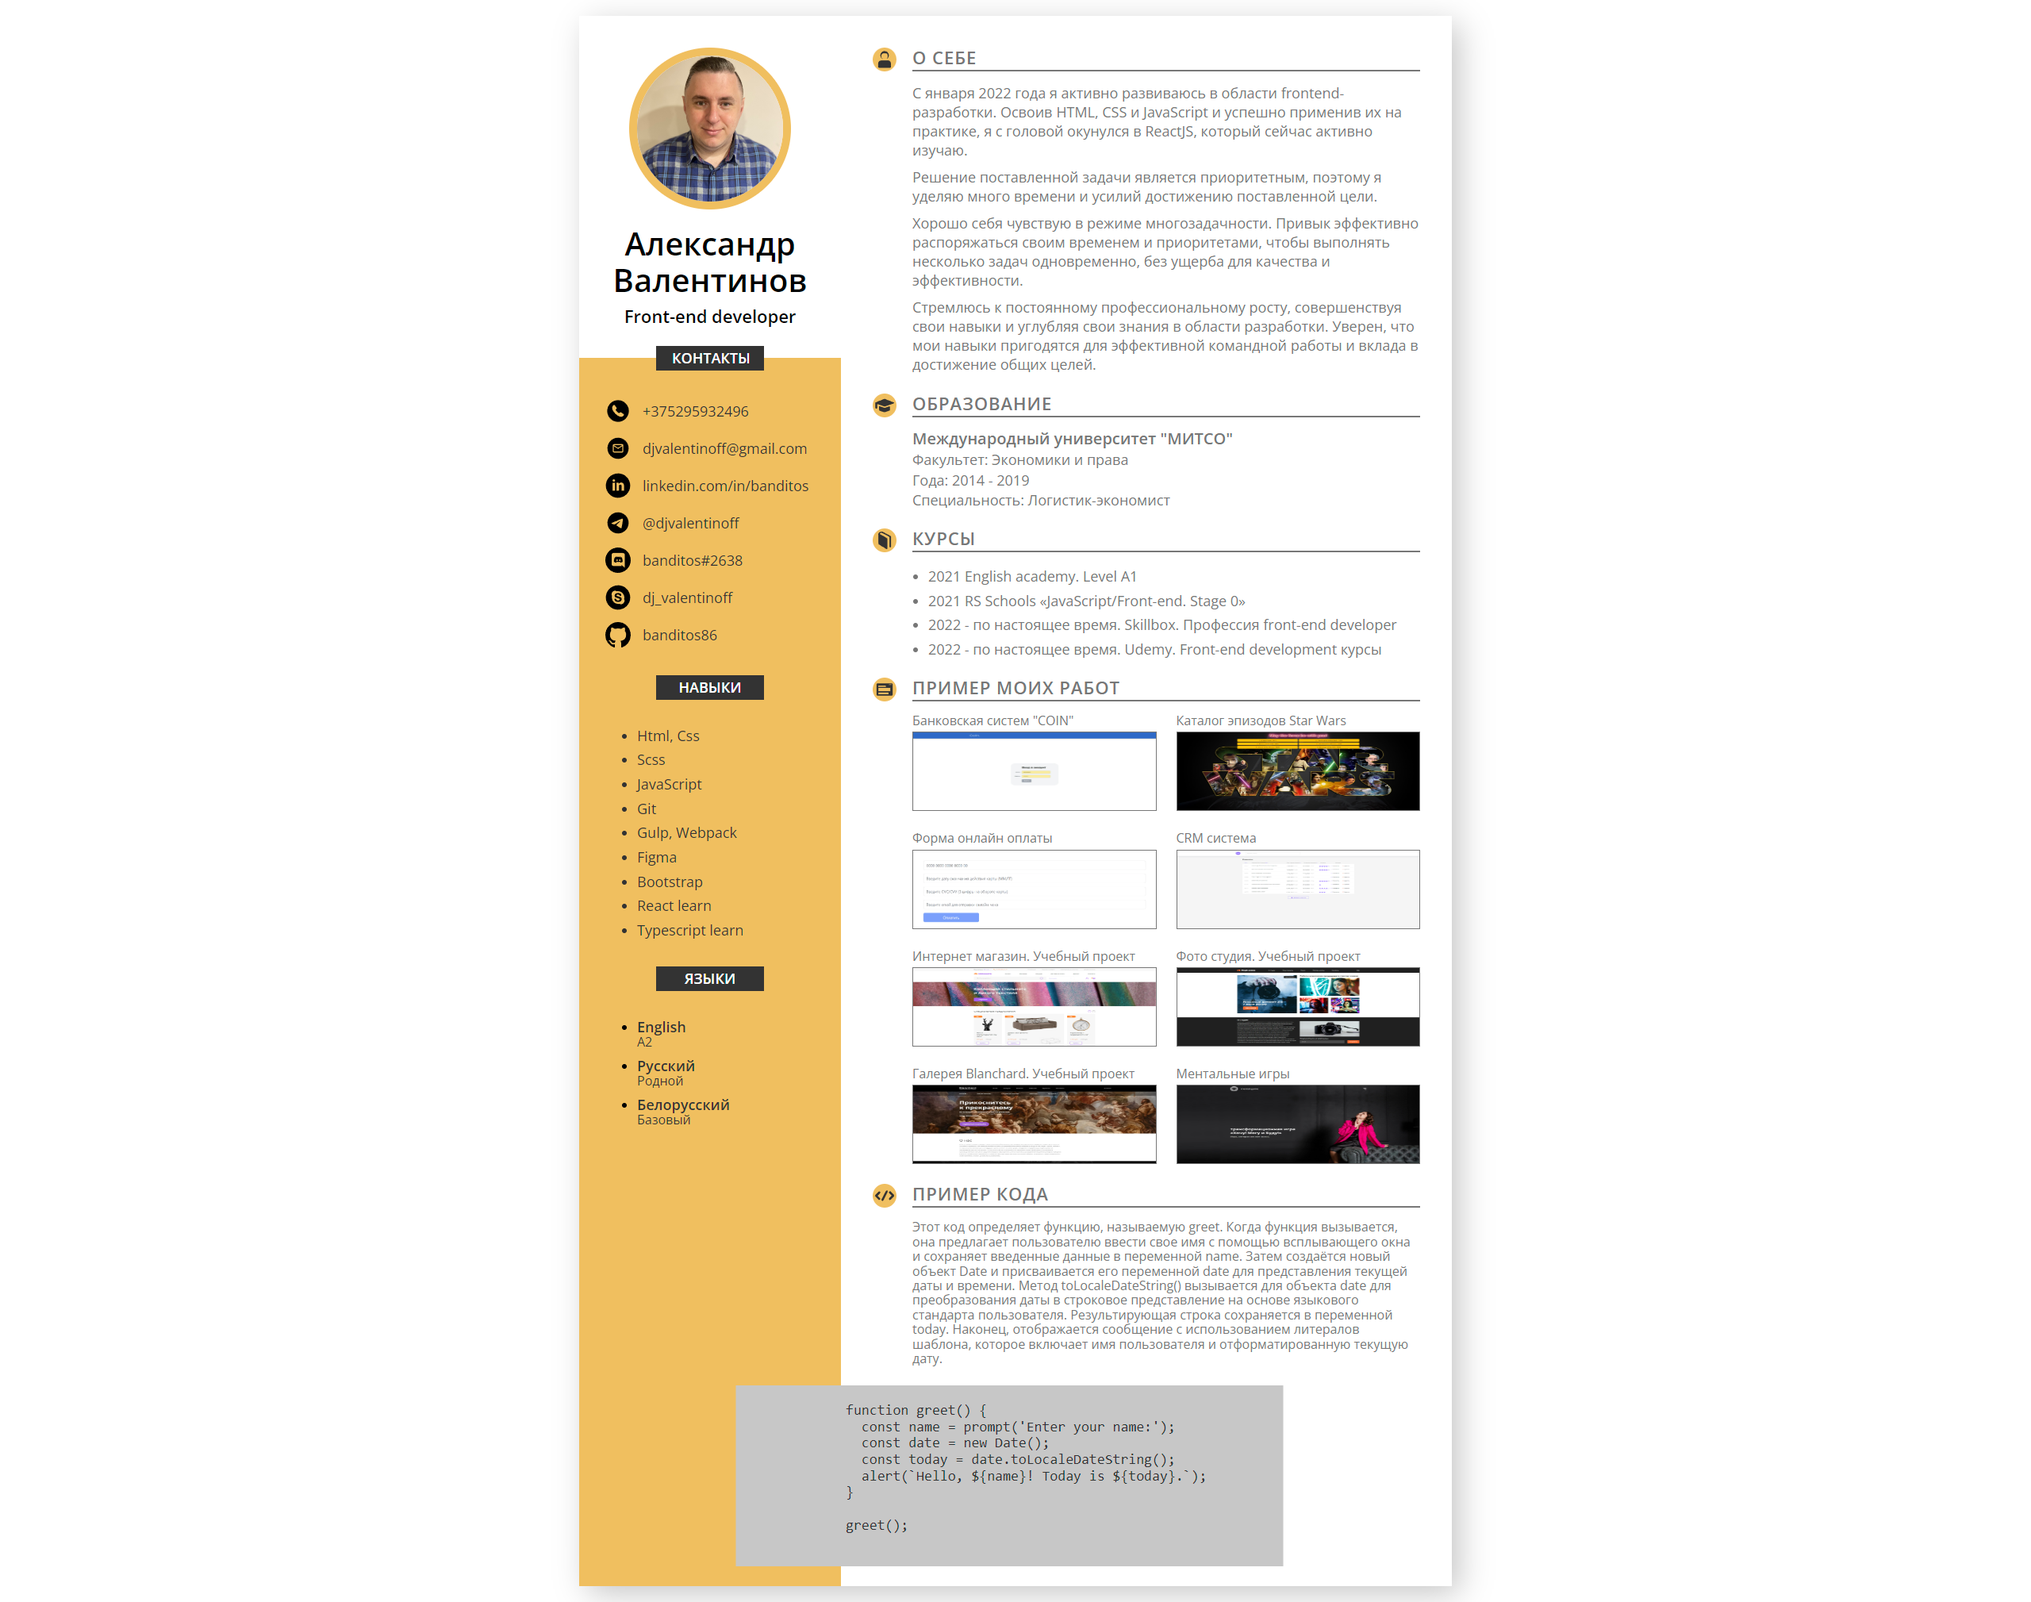
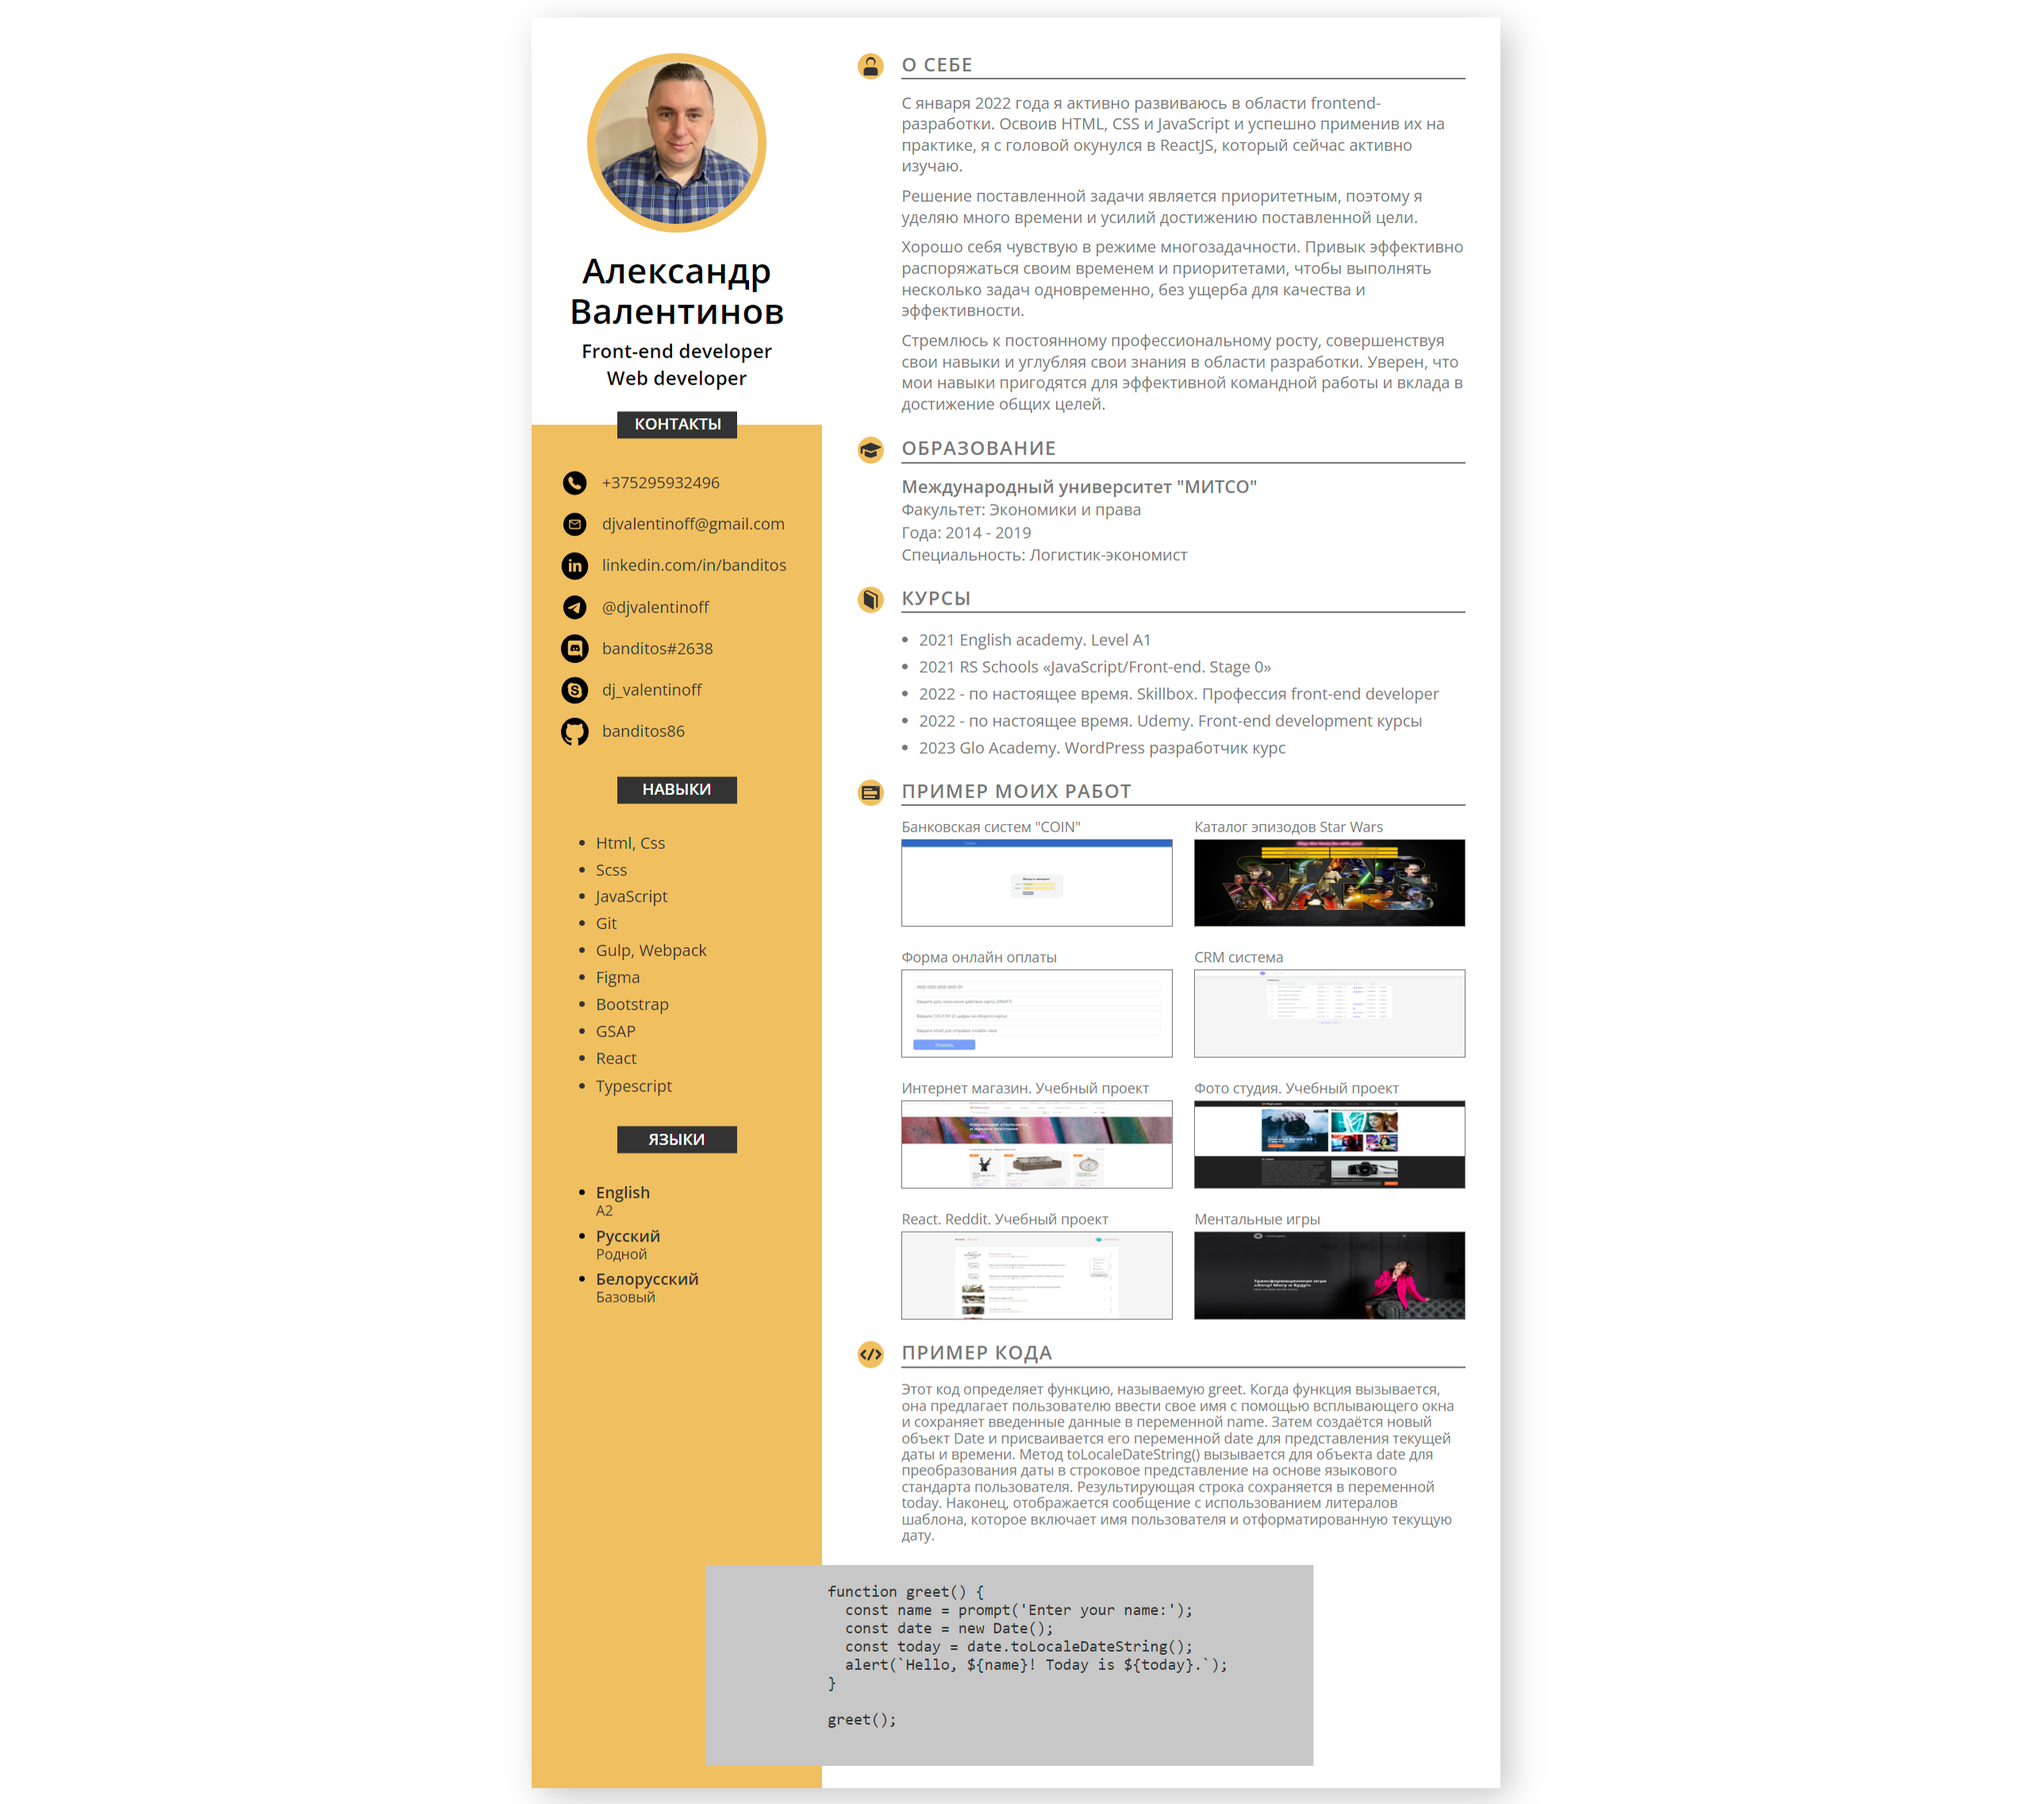
add: updated the information

Changed region(s): [[0.25, 0.0312, 0.75, 0.9985]]

diff --git a/index.html b/index.html
@@ -58,6 +58,8 @@
               <li class="skills__item">GSAP</li>
               <li class="skills__item">React</li>
               <li class="skills__item">Typescript</li>
+              <li class="skills__item">WordPress</li>
+              <li class="skills__item">PHP</li>
             </ul>
           </section>
           <section class="languages">
